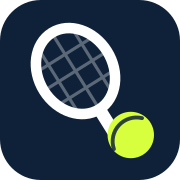
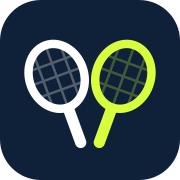
Nyt maerke med to ketsjere, aabnet checkout for MobilePay, og mere indhold paa forsiden
Maerket: to ketsjere der laener mod hinanden, en hvid og en boldgul. En
ketsjer alene sagde kun 'ketsjersport'. To siger 'dig og en makker', og det
er den halvdel af produktet ingen gaetter sig til. Tegnet for 44 px, ikke
for 512.

Checkout laaste til payment_method_types ['card'], mens kommentaren lige
over lovede at MobilePay ville dukke op automatisk naar den blev slaaet til.
Nu er listen fjernet, saa Stripe bruger det der er slaaet til i panelet.

Forsiden: aflysningsreglen staar nu med sit rigtige tal - mere end 24 timer
foer spilletid giver hele beloebet tilbage, ogsaa vores andel. Plus fire
spoergsmaal med svar, der alle foelger det systemet faktisk goer.

Changed region(s): [[0.1111, 0.1111, 0.8889, 0.8889]]

diff --git a/src/lib/i18n.ts b/src/lib/i18n.ts
@@ -1187,25 +1187,25 @@ const T: Dict = {
     no: "Prisen står der",
   },
   "home.trustPriceBody": {
-    da: "Ingen gebyrer oveni ved kassen. Det, der står, er det, du betaler.",
-    en: "No fees added at checkout. What it says is what you pay.",
-    de: "Keine Gebühren an der Kasse. Was dasteht, zahlst du.",
-    sv: "Inga avgifter på köpet i kassan. Det som står är det du betalar.",
-    no: "Ingen gebyrer på toppen i kassen. Det som står, er det du betaler.",
+    da: "Prisen på skærmen er den, du betaler. Ingen gebyrer lagt til ved kassen, og en profil koster ingenting at have.",
+    en: "The price on the screen is what you pay. No fees added at checkout, and having a profile costs nothing.",
+    de: "Der Preis auf dem Bildschirm ist der, den du zahlst. Keine Gebühren an der Kasse, und ein Profil kostet nichts.",
+    sv: "Priset på skärmen är det du betalar. Inga avgifter tillagda i kassan, och ett konto kostar ingenting.",
+    no: "Prisen på skjermen er den du betaler. Ingen gebyrer lagt til i kassen, og en profil koster ingenting.",
   },
   "home.trustCancel": {
-    da: "Aflys og få pengene igen",
-    en: "Cancel and get your money back",
-    de: "Absagen und Geld zurück",
-    sv: "Avboka och få pengarna tillbaka",
-    no: "Avlys og få pengene igjen",
+    da: "Aflys op til 24 timer før",
+    en: "Cancel up to 24 hours before",
+    de: "Bis 24 Stunden vorher absagen",
+    sv: "Avboka upp till 24 timmar innan",
+    no: "Avlys inntil 24 timer før",
   },
   "home.trustCancelBody": {
-    da: "Aflyser du i god tid før spilletid, betaler vi tilbage automatisk.",
-    en: "Cancel in good time before the slot and we refund automatically.",
-    de: "Sagst du rechtzeitig ab, erstatten wir automatisch.",
-    sv: "Avbokar du i god tid före speltid betalar vi tillbaka automatiskt.",
-    no: "Avlyser du i god tid før spilletid, betaler vi tilbake automatisk.",
+    da: "Aflyser du mere end 24 timer før spilletid, får du hele beløbet tilbage automatisk — også vores andel. Tættere på kan klubben ikke nå at sælge tiden igen.",
+    en: "Cancel more than 24 hours before the slot and you get the full amount back automatically — our share too. Any closer and the club cannot resell the time.",
+    de: "Sagst du mehr als 24 Stunden vorher ab, bekommst du alles automatisch zurück — auch unseren Anteil. Näher dran kann der Club die Zeit nicht mehr weiterverkaufen.",
+    sv: "Avbokar du mer än 24 timmar före speltid får du hela beloppet tillbaka automatiskt — även vår andel. Närmare än så hinner klubben inte sälja tiden igen.",
+    no: "Avlyser du mer enn 24 timer før spilletid, får du hele beløpet tilbake automatisk — også vår andel. Nærmere enn det rekker ikke klubben å selge tiden igjen.",
   },
   "home.ctaSignup": {
     da: "Opret profil — det er gratis",
@@ -1213,6 +1213,70 @@ const T: Dict = {
     de: "Profil erstellen — kostenlos",
     sv: "Skapa profil — det är gratis",
     no: "Opprett profil — det er gratis",
+  },
+
+  "home.faqTitle": {
+    da: "Det folk plejer at spørge om",
+    en: "What people usually ask",
+    de: "Was meistens gefragt wird",
+    sv: "Det folk brukar fråga om",
+    no: "Det folk pleier å spørre om",
+  },
+  "home.faq1Q": {
+    da: "Skal jeg være medlem af klubben?",
+    en: "Do I need to be a member of the club?",
+    de: "Muss ich Mitglied im Club sein?",
+    sv: "Måste jag vara medlem i klubben?",
+    no: "Må jeg være medlem av klubben?",
+  },
+  "home.faq1A": {
+    da: "Nej. Klubberne frigiver selv de tider, de gerne vil sælge til folk udefra. Du booker én time og møder op.",
+    en: "No. The clubs decide which times to release to people from outside. You book a single hour and turn up.",
+    de: "Nein. Die Clubs geben selbst frei, welche Zeiten sie an Auswärtige verkaufen wollen. Du buchst eine Stunde und kommst.",
+    sv: "Nej. Klubbarna släpper själva de tider de vill sälja till utomstående. Du bokar en timme och dyker upp.",
+    no: "Nei. Klubbene frigir selv tidene de vil selge til folk utenfra. Du booker én time og møter opp.",
+  },
+  "home.faq2Q": {
+    da: "Hvad hvis jeg ikke bliver færdig med at betale?",
+    en: "What if I do not finish paying?",
+    de: "Was, wenn ich die Zahlung nicht abschließe?",
+    sv: "Vad händer om jag inte betalar klart?",
+    no: "Hva om jeg ikke blir ferdig med å betale?",
+  },
+  "home.faq2A": {
+    da: "Tiden holdes for dig i 10 minutter. Bliver betalingen ikke gennemført, frigives tiden igen, og der er ikke trukket noget.",
+    en: "The slot is held for 10 minutes. If the payment is not completed, the time is released again and nothing has been charged.",
+    de: "Die Zeit wird 10 Minuten reserviert. Wird nicht bezahlt, wird sie wieder freigegeben, und es wurde nichts abgebucht.",
+    sv: "Tiden hålls i 10 minuter. Slutförs inte betalningen släpps tiden igen, och inget har dragits.",
+    no: "Tiden holdes i 10 minutter. Fullføres ikke betalingen, frigis tiden igjen, og ingenting er trukket.",
+  },
+  "home.faq3Q": {
+    da: "Hvordan finder jeg en at spille mod?",
+    en: "How do I find someone to play against?",
+    de: "Wie finde ich jemanden zum Spielen?",
+    sv: "Hur hittar jag någon att spela mot?",
+    no: "Hvordan finner jeg noen å spille mot?",
+  },
+  "home.faq3A": {
+    da: "Du ser spillere på dit niveau i dit område, én ad gangen. Siger I begge ja, åbner der en samtale — og springer du over, får den anden ikke besked.",
+    en: "You see players at your level nearby, one at a time. If you both say yes, a conversation opens — and if you skip, the other person is not told.",
+    de: "Du siehst Spieler auf deinem Niveau in deiner Nähe, einen nach dem anderen. Sagt ihr beide ja, öffnet sich ein Gespräch — überspringst du, erfährt die andere Person nichts.",
+    sv: "Du ser spelare på din nivå i ditt område, en i taget. Säger ni båda ja öppnas en konversation — och hoppar du över får den andra inte veta det.",
+    no: "Du ser spillere på ditt nivå i området ditt, én om gangen. Sier dere begge ja, åpnes en samtale — og hopper du over, får den andre ikke beskjed.",
+  },
+  "home.faq4Q": {
+    da: "Hvad koster det at bruge RacketBuddy?",
+    en: "What does it cost to use RacketBuddy?",
+    de: "Was kostet RacketBuddy?",
+    sv: "Vad kostar det att använda RacketBuddy?",
+    no: "Hva koster det å bruke RacketBuddy?",
+  },
+  "home.faq4A": {
+    da: "Ingenting for dig. Du betaler kun banen eller trænertimen, og prisen er klubbens egen. Vores andel tages af klubbens betaling, ikke lagt oveni din.",
+    en: "Nothing for you. You only pay for the court or the coaching session, at the club's own price. Our share comes out of the club's payment, not added on top of yours.",
+    de: "Für dich nichts. Du zahlst nur den Platz oder die Trainerstunde zum Preis des Clubs. Unser Anteil kommt aus der Zahlung des Clubs, nicht obendrauf.",
+    sv: "Ingenting för dig. Du betalar bara banan eller tränartimmen till klubbens eget pris. Vår andel tas från klubbens betalning, inte ovanpå din.",
+    no: "Ingenting for deg. Du betaler bare banen eller trenertimen til klubbens egen pris. Vår andel tas av klubbens betaling, ikke lagt på toppen av din.",
   },
 
   // Klubber

diff --git a/src/components/Logo.tsx b/src/components/Logo.tsx
@@ -1,34 +1,34 @@
-// Mærket. Samme tegning som app-ikonet og favicon'et, så det er den samme
-// ketsjer, uanset om man møder den i en fane, på en telefon eller i toppen
-// af siden.
+// Mærket: to ketsjere, der læner mod hinanden. En hvid og en boldgul.
+//
+// Ketsjeren alene sagde kun "ketsjersport". To siger "dig og en makker",
+// og det er den halvdel af produktet, ingen gætter sig til — baner kan man
+// booke mange steder, men det er makkeren, der er svær at finde.
+//
+// Samme tegning som favicon, app-ikon og splash. Skal den ændres, ændres
+// src/app/icon.svg, og resten genskabes derfra.
 export function Logo({ size = 32 }: { size?: number }) {
   return (
-    <svg
-      viewBox="0 0 512 512"
-      width={size}
-      height={size}
-      aria-hidden="true"
-      className="shrink-0"
-    >
-      <rect width="512" height="512" rx="116" fill="#0F2138" />
-      <g transform="rotate(-32 236 236)">
-        <rect x="218" y="300" width="36" height="150" rx="18" fill="#FFFFFF" />
-        <ellipse cx="236" cy="196" rx="106" ry="128" fill="#0F2138" />
-        <g stroke="#FFFFFF" strokeWidth="9" opacity="0.32">
-          <path d="M236 76 V316" /><path d="M180 90 V302" /><path d="M292 90 V302" />
-          <path d="M132 196 H340" /><path d="M142 140 H330" /><path d="M142 252 H330" />
+    <svg viewBox="0 0 512 512" width={size} height={size} aria-hidden="true" className="shrink-0">
+        <rect width="512" height="512" rx="116" fill="#0F2138"/>
+        <g transform="rotate(-20 168 236)">
+          <rect x="152" y="300" width="32" height="132" rx="16" fill="#FFFFFF"/>
+          <ellipse cx="168" cy="216" rx="78" ry="94" fill="#0F2138"/>
+          <g stroke="#FFFFFF" strokeWidth="7" opacity="0.28">
+            <path d="M168 128 V304"/><path d="M128 140 V292"/><path d="M208 140 V292"/>
+            <path d="M94 216 H242"/><path d="M102 176 H234"/><path d="M102 256 H234"/>
+          </g>
+          <ellipse cx="168" cy="216" rx="78" ry="94" fill="none" stroke="#FFFFFF" strokeWidth="24"/>
         </g>
-        <ellipse cx="236" cy="196" rx="106" ry="128" fill="none" stroke="#FFFFFF" strokeWidth="30" />
-      </g>
-      <circle cx="372" cy="384" r="66" fill="#D8FF3E" />
-      <path
-        d="M324 424 A 68 68 0 0 1 404 336"
-        fill="none"
-        stroke="#0F2138"
-        strokeWidth="11"
-        strokeLinecap="round"
-        opacity="0.85"
-      />
+      
+        <g transform="rotate(20 344 236)">
+          <rect x="328" y="300" width="32" height="132" rx="16" fill="#D8FF3E"/>
+          <ellipse cx="344" cy="216" rx="78" ry="94" fill="#0F2138"/>
+          <g stroke="#D8FF3E" strokeWidth="7" opacity="0.26">
+            <path d="M344 128 V304"/><path d="M304 140 V292"/><path d="M384 140 V292"/>
+            <path d="M270 216 H418"/><path d="M278 176 H410"/><path d="M278 256 H410"/>
+          </g>
+          <ellipse cx="344" cy="216" rx="78" ry="94" fill="none" stroke="#D8FF3E" strokeWidth="24"/>
+        </g>
     </svg>
   );
 }

diff --git a/src/app/page.tsx b/src/app/page.tsx
@@ -209,6 +209,25 @@ export default async function Home() {
         </section>
       )}
 
+      {/* Spørgsmålene med de tal, systemet faktisk kører med. Står der 24
+          timer her, skal koden også sige 24 — se REFUND_WINDOW_HOURS. */}
+      <section>
+        <h2 className="display text-2xl sm:text-3xl">{t("home.faqTitle")}</h2>
+        <div className="mt-5 grid gap-4 sm:grid-cols-2">
+          {[
+            { q: t("home.faq1Q"), a: t("home.faq1A") },
+            { q: t("home.faq2Q"), a: t("home.faq2A") },
+            { q: t("home.faq3Q"), a: t("home.faq3A") },
+            { q: t("home.faq4Q"), a: t("home.faq4A") },
+          ].map((item) => (
+            <div key={item.q} className="card">
+              <p className="display text-lg">{item.q}</p>
+              <p className="mt-2 text-sm leading-relaxed text-slate">{item.a}</p>
+            </div>
+          ))}
+        </div>
+      </section>
+
       {/* Klub-pitch */}
       <section className="overflow-hidden rounded-2xl bg-ink px-6 py-10 text-chalk sm:px-10">
         <div className="chalk-line mb-6 max-w-[220px]" />

diff --git a/src/lib/payments.ts b/src/lib/payments.ts
@@ -160,9 +160,10 @@ export async function startCheckout(bookingId: string): Promise<string> {
 
   const session = await (await stripe()).checkout.sessions.create({
     mode: "payment",
-    // MobilePay slås til i Stripe Dashboard under Payment methods — når
-    // det er gjort, dukker det automatisk op her uden kodeændringer.
-    payment_method_types: ["card"],
+    // Ingen payment_method_types: så bruger Stripe de metoder, der er slået
+    // til i panelet. Var den låst til ["card"], ville MobilePay aldrig dukke
+    // op, uanset hvad man slog til — og det er præcis den slags, man leder
+    // efter i den forkerte ende i en time.
     line_items: [
       {
         price_data: {

diff --git a/src/lib/packages.ts b/src/lib/packages.ts
@@ -144,7 +144,10 @@ export async function startPackageCheckout(
 
   const session = await (await stripe()).checkout.sessions.create({
     mode: "payment",
-    payment_method_types: ["card"],
+    // Ingen payment_method_types: så bruger Stripe de metoder, der er slået
+    // til i panelet. Var den låst til ["card"], ville MobilePay aldrig dukke
+    // op, uanset hvad man slog til — og det er præcis den slags, man leder
+    // efter i den forkerte ende i en time.
     line_items: [
       {
         price_data: {

diff --git a/README.md b/README.md
@@ -491,13 +491,21 @@ Seks valg, fem ordbøger: dansk, britisk engelsk, amerikansk engelsk, tysk, sven
 
 ## Mærket
 
-Én tegning bruges alle steder: favicon, app-ikon, splash og logoet i toppen af siden. En ketsjer med streng og en boldgul kugle på mørkeblå. `optic` (#D8FF3E) står i paletten som "bolden — sparsomt", og det er præcis dét, den bruges til her.
+To ketsjere, der læner mod hinanden — en hvid og en boldgul — på mørkeblå. Ketsjeren alene sagde kun "ketsjersport". To siger "dig og en makker", og det er den halvdel af produktet, ingen gætter sig til: baner kan man booke mange steder, men makkeren er det svære.
 
-**Bolden har én søm, ikke to.** Ved 32 px forsvinder detaljer alligevel, og to buer gjorde bolden aflang i stedet for rund. Ikonet er tegnet for den mindste størrelse, det skal overleve, ikke den største.
+Tegnet for 44 px, ikke for 512. Ved den størrelse forsvinder strengene, og tilbage står to former, der stadig kan skelnes fra hinanden — det er dét, en favicon skal kunne.
 
-Filerne genereres fra samme SVG: `src/app/icon.svg` (favicon), `icon.png`, `apple-icon.png`, `opengraph-image.png` og `mobile/assets/*`. Skal mærket ændres, ændres SVG'en, og resten genskabes derfra — ellers driver web og app fra hinanden.
+Alle filer genereres fra `src/app/icon.svg`: favicon, `icon.png`, `apple-icon.png` og `mobile/assets/*`. Skal mærket ændres, ændres SVG'en, og resten genskabes derfra — ellers driver web og app fra hinanden.
 
-**Titlen i fanen følger sproget.** `generateMetadata` slår `meta.title` og `meta.description` op i ordbogen. En tysker, der har valgt tysk, skal ikke have en dansk fane stående.
+**Titlen i fanen følger sproget.** `generateMetadata` slår `meta.title` og `meta.description` op i ordbogen.
+
+## Betalingsmetoder
+
+Checkout låser ikke længere til `["card"]`. Uden `payment_method_types` bruger Stripe de metoder, der er slået til i panelet, og en ny metode kræver derfor ingen kodeændring.
+
+Det gjaldt ikke før: kommentaren i koden lovede, at MobilePay ville dukke op automatisk, mens linjen nedenunder gjorde det umuligt. Den slags leder man efter i den forkerte ende i en time.
+
+MobilePay afregnes i øvrigt som en korttransaktion hos Stripe, ikke som en bankoverførsel. Om den kan slås til for netop denne konto, afgør Stripe ud fra kontoens profil, og svaret står under Payment methods i panelet.
 
 ## Forsiden
 
